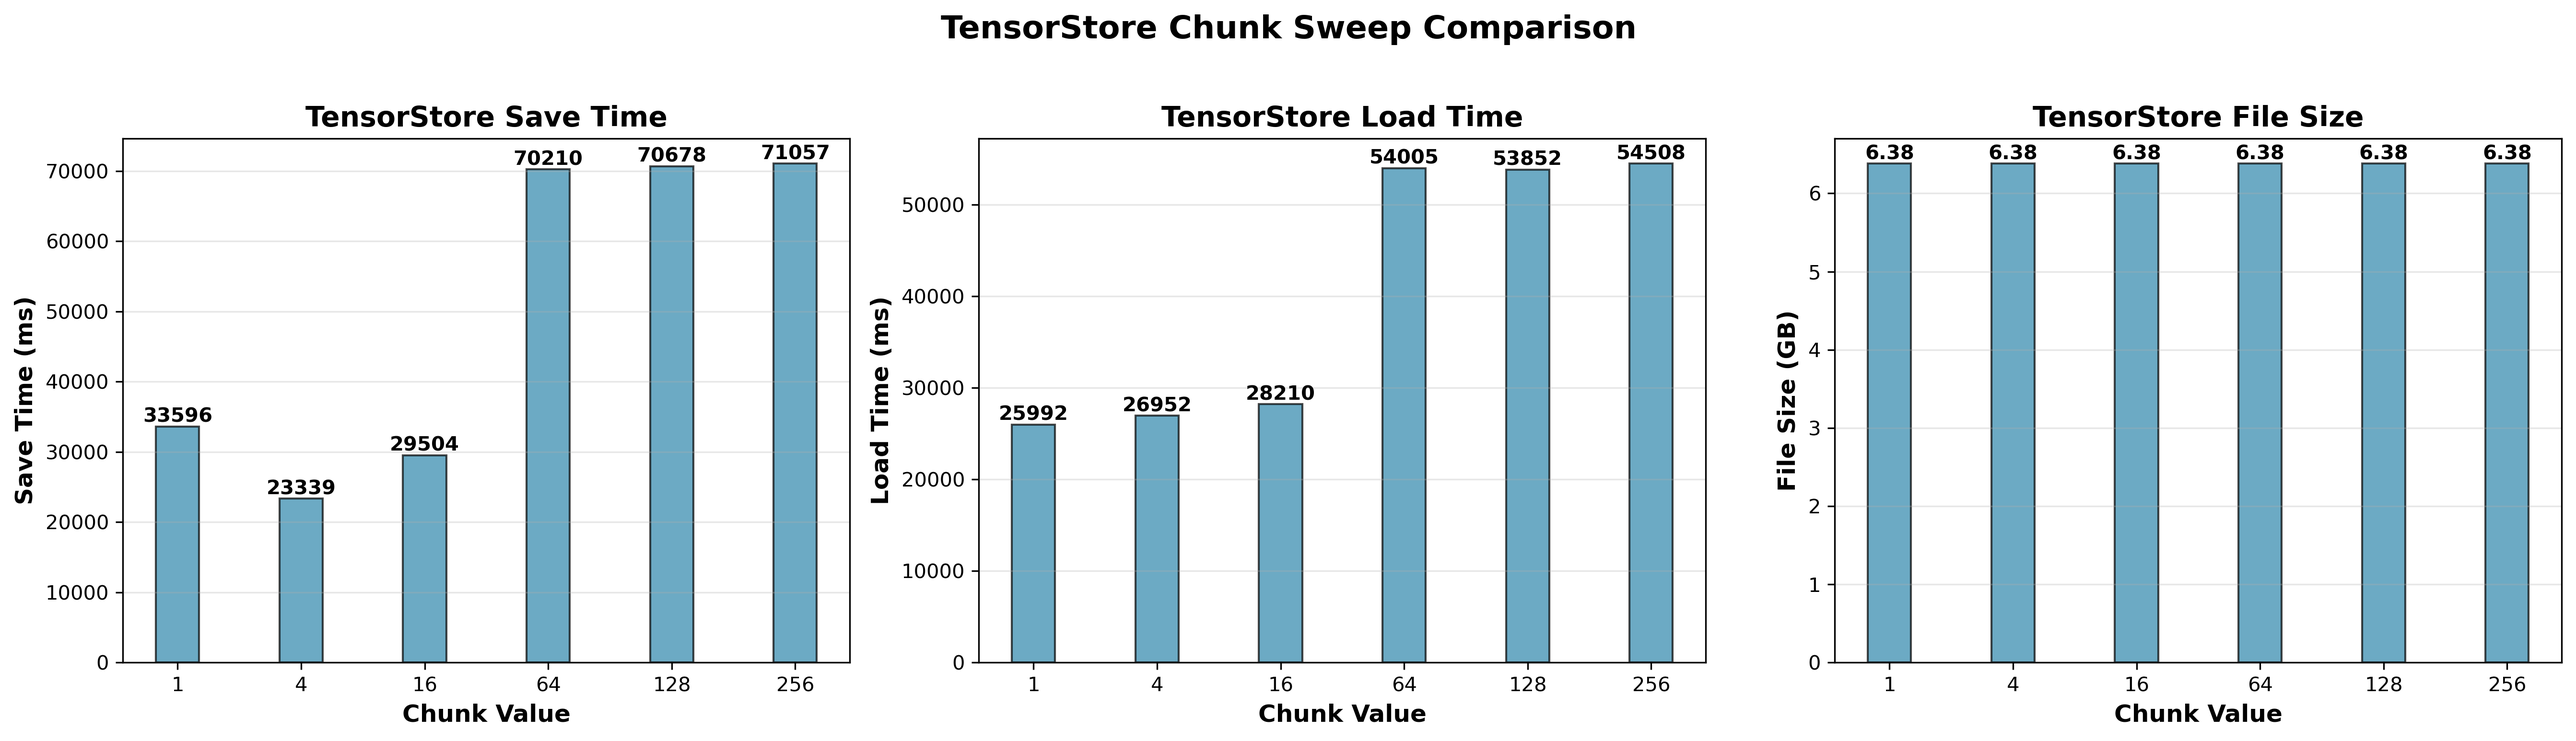
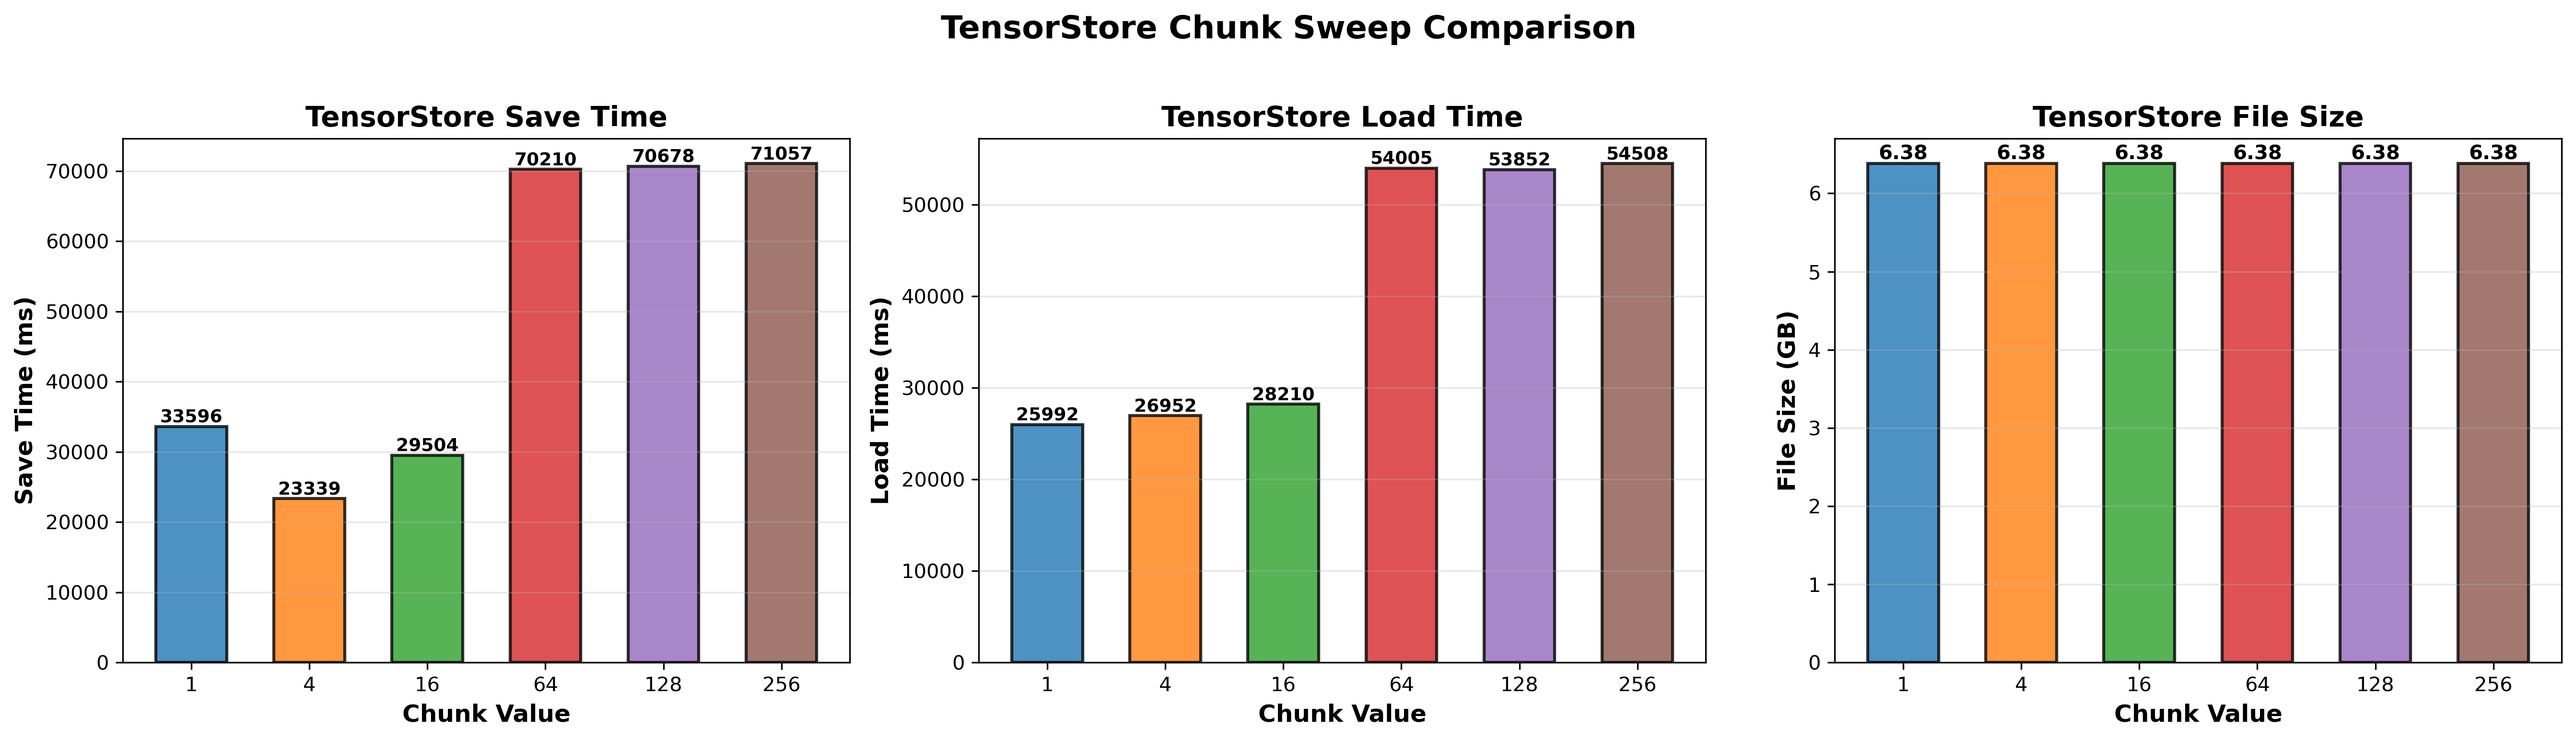
plot results updated

Changed region(s): [[0.715, 0.1863, 0.9948, 0.9314], [0.0622, 0.1863, 0.342, 0.9314], [0.373, 0.1863, 0.6528, 0.9314]]

diff --git a/llama-work/cluster/src/compare_sweep.py b/llama-work/cluster/src/compare_sweep.py
@@ -90,15 +90,19 @@ for result in sweep_results:
 
 # x-axis setup
 x = np.arange(len(param_values))
-width = 0.35  # single color for tensorstore
+width = 0.6  # bar width
+
+# generate dynamic colors using a colormap
+n_bars = len(param_values)
+cmap = plt.cm.get_cmap('tab10')  # use tab10 colormap for distinct colors
+colors = [cmap(i % 10) for i in range(n_bars)]  # cycle through 10 colors if needed
 
 # create 3-panel comparison plot for tensorstore
 fig, (ax1, ax2, ax3) = plt.subplots(1, 3, figsize=(18, 5))
-color = '#2E86AB'  # single color for tensorstore
 
 # plot 1: save time
 if any(save_times['tensorstore']):
-    ax1.bar(x, save_times['tensorstore'], width, color=color, alpha=0.7, edgecolor='black')
+    bars1 = ax1.bar(x, save_times['tensorstore'], width, color=colors, alpha=0.8, edgecolor='black', linewidth=1.5)
     ax1.set_xlabel(f'{args.sweep_param.capitalize()} Value', fontweight='bold', fontsize=12)
     ax1.set_ylabel('Save Time (ms)', fontweight='bold', fontsize=12)
     ax1.set_title('TensorStore Save Time', fontweight='bold', fontsize=14)
@@ -107,11 +111,11 @@ if any(save_times['tensorstore']):
     ax1.grid(alpha=0.3, axis='y')
     # add value labels on bars
     for i, v in enumerate(save_times['tensorstore']):
-        ax1.text(i, v, f'{v:.0f}', ha='center', va='bottom', fontweight='bold')
+        ax1.text(i, v, f'{v:.0f}', ha='center', va='bottom', fontweight='bold', fontsize=9)
 
 # plot 2: load time
 if any(load_times['tensorstore']):
-    ax2.bar(x, load_times['tensorstore'], width, color=color, alpha=0.7, edgecolor='black')
+    bars2 = ax2.bar(x, load_times['tensorstore'], width, color=colors, alpha=0.8, edgecolor='black', linewidth=1.5)
     ax2.set_xlabel(f'{args.sweep_param.capitalize()} Value', fontweight='bold', fontsize=12)
     ax2.set_ylabel('Load Time (ms)', fontweight='bold', fontsize=12)
     ax2.set_title('TensorStore Load Time', fontweight='bold', fontsize=14)
@@ -120,11 +124,11 @@ if any(load_times['tensorstore']):
     ax2.grid(alpha=0.3, axis='y')
     # add value labels on bars
     for i, v in enumerate(load_times['tensorstore']):
-        ax2.text(i, v, f'{v:.0f}', ha='center', va='bottom', fontweight='bold')
+        ax2.text(i, v, f'{v:.0f}', ha='center', va='bottom', fontweight='bold', fontsize=9)
 
 # plot 3: file size
 if any(file_sizes['tensorstore']):
-    ax3.bar(x, file_sizes['tensorstore'], width, color=color, alpha=0.7, edgecolor='black')
+    bars3 = ax3.bar(x, file_sizes['tensorstore'], width, color=colors, alpha=0.8, edgecolor='black', linewidth=1.5)
     ax3.set_xlabel(f'{args.sweep_param.capitalize()} Value', fontweight='bold', fontsize=12)
     ax3.set_ylabel('File Size (GB)', fontweight='bold', fontsize=12)
     ax3.set_title('TensorStore File Size', fontweight='bold', fontsize=14)
